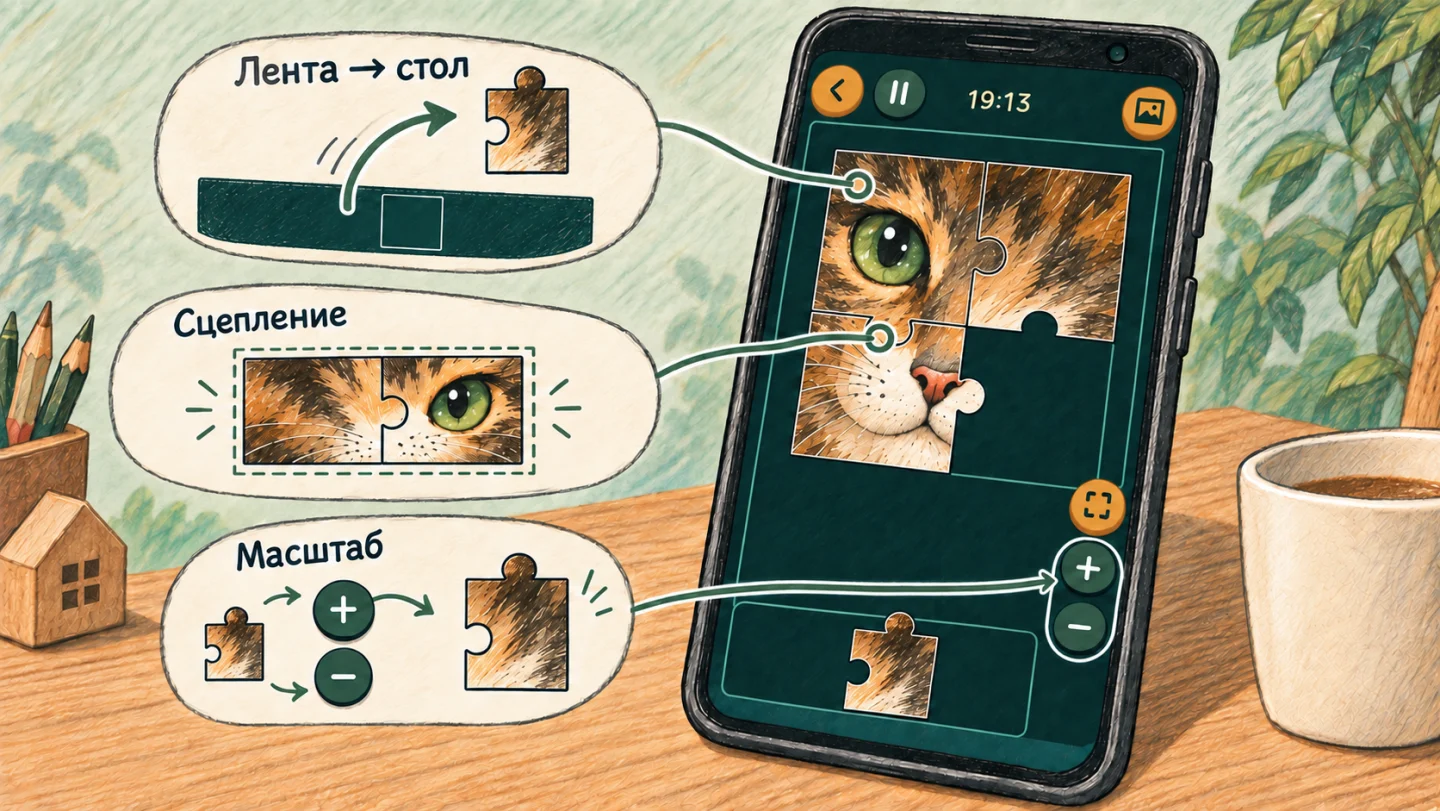
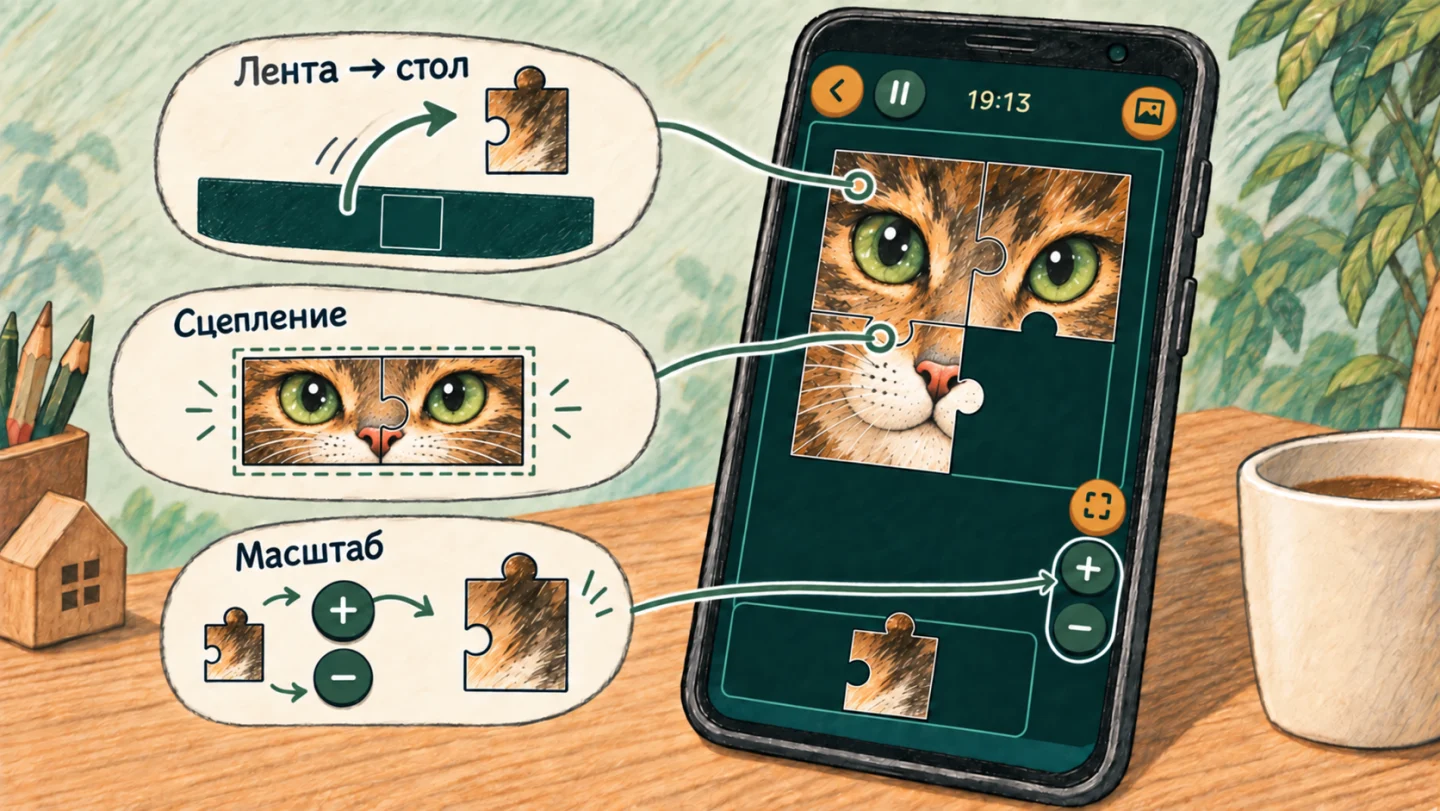
Fix connected puzzle artwork and clear tutorial empty slot

diff --git a/docs/artwork-corrections-2026-09-29.md b/docs/artwork-corrections-2026-09-29.md
@@ -1,0 +1,11 @@
+# Targeted artwork corrections — 29 September 2026
+
+Mode: built-in ImageGen, precise-object-edit. Existing chapter illustrations used as edit targets. Outputs visually reviewed and converted to 1440px WebP (quality 86).
+
+### 04-playable-game: continuous picture
+
+Use case: precise-object-edit. Edit this existing colored-pencil technical illustration, preserve layout, Russian labels, colors and ALL puzzle outlines exactly. Correct ONLY the printed picture inside the two connected puzzle pieces in the left middle callout labelled Сцепление: they must form ONE continuous anatomically coherent cat face crop, both eyes at the same height, centered nose and continuous fur/whiskers across the shared seam. Draw the coherent image first and overlay the existing shared tabbed seam; no mismatched image fragments. Also ensure the cat picture on the phone is continuous across its existing seams. Preserve the exact puzzle geometry: assembled rectangle straight outer edges, only shared internal tabs; phone 2x2 with bottom-right missing, all loose bottom-right pieces have top convex tab and left concave socket. No other changes.
+
+### 07-tutorial: empty slot
+
+Use case: precise-object-edit. Edit only the rightmost panel Найти деталь of this colored-pencil illustration. The lower-right missing puzzle-piece slot erroneously contains a brown sack and straw. ERASE THE ENTIRE SACK AND ALL STRAW inside that missing lower-right slot and replace with plain dark teal tabletop identical to the surrounding board. The entire missing piece area must be empty teal, including its top convex-tab space and left concave socket border around the neighboring cat piece protrusion. Keep the cat and straw INSIDE the lower-left placed puzzle piece unchanged. Preserve all three placed pieces, exact outlines, dashed slot border, detached sunset piece, hands, arrows, lettering, and other two panels exactly. No picture or ghost preview whatsoever in the empty slot.
